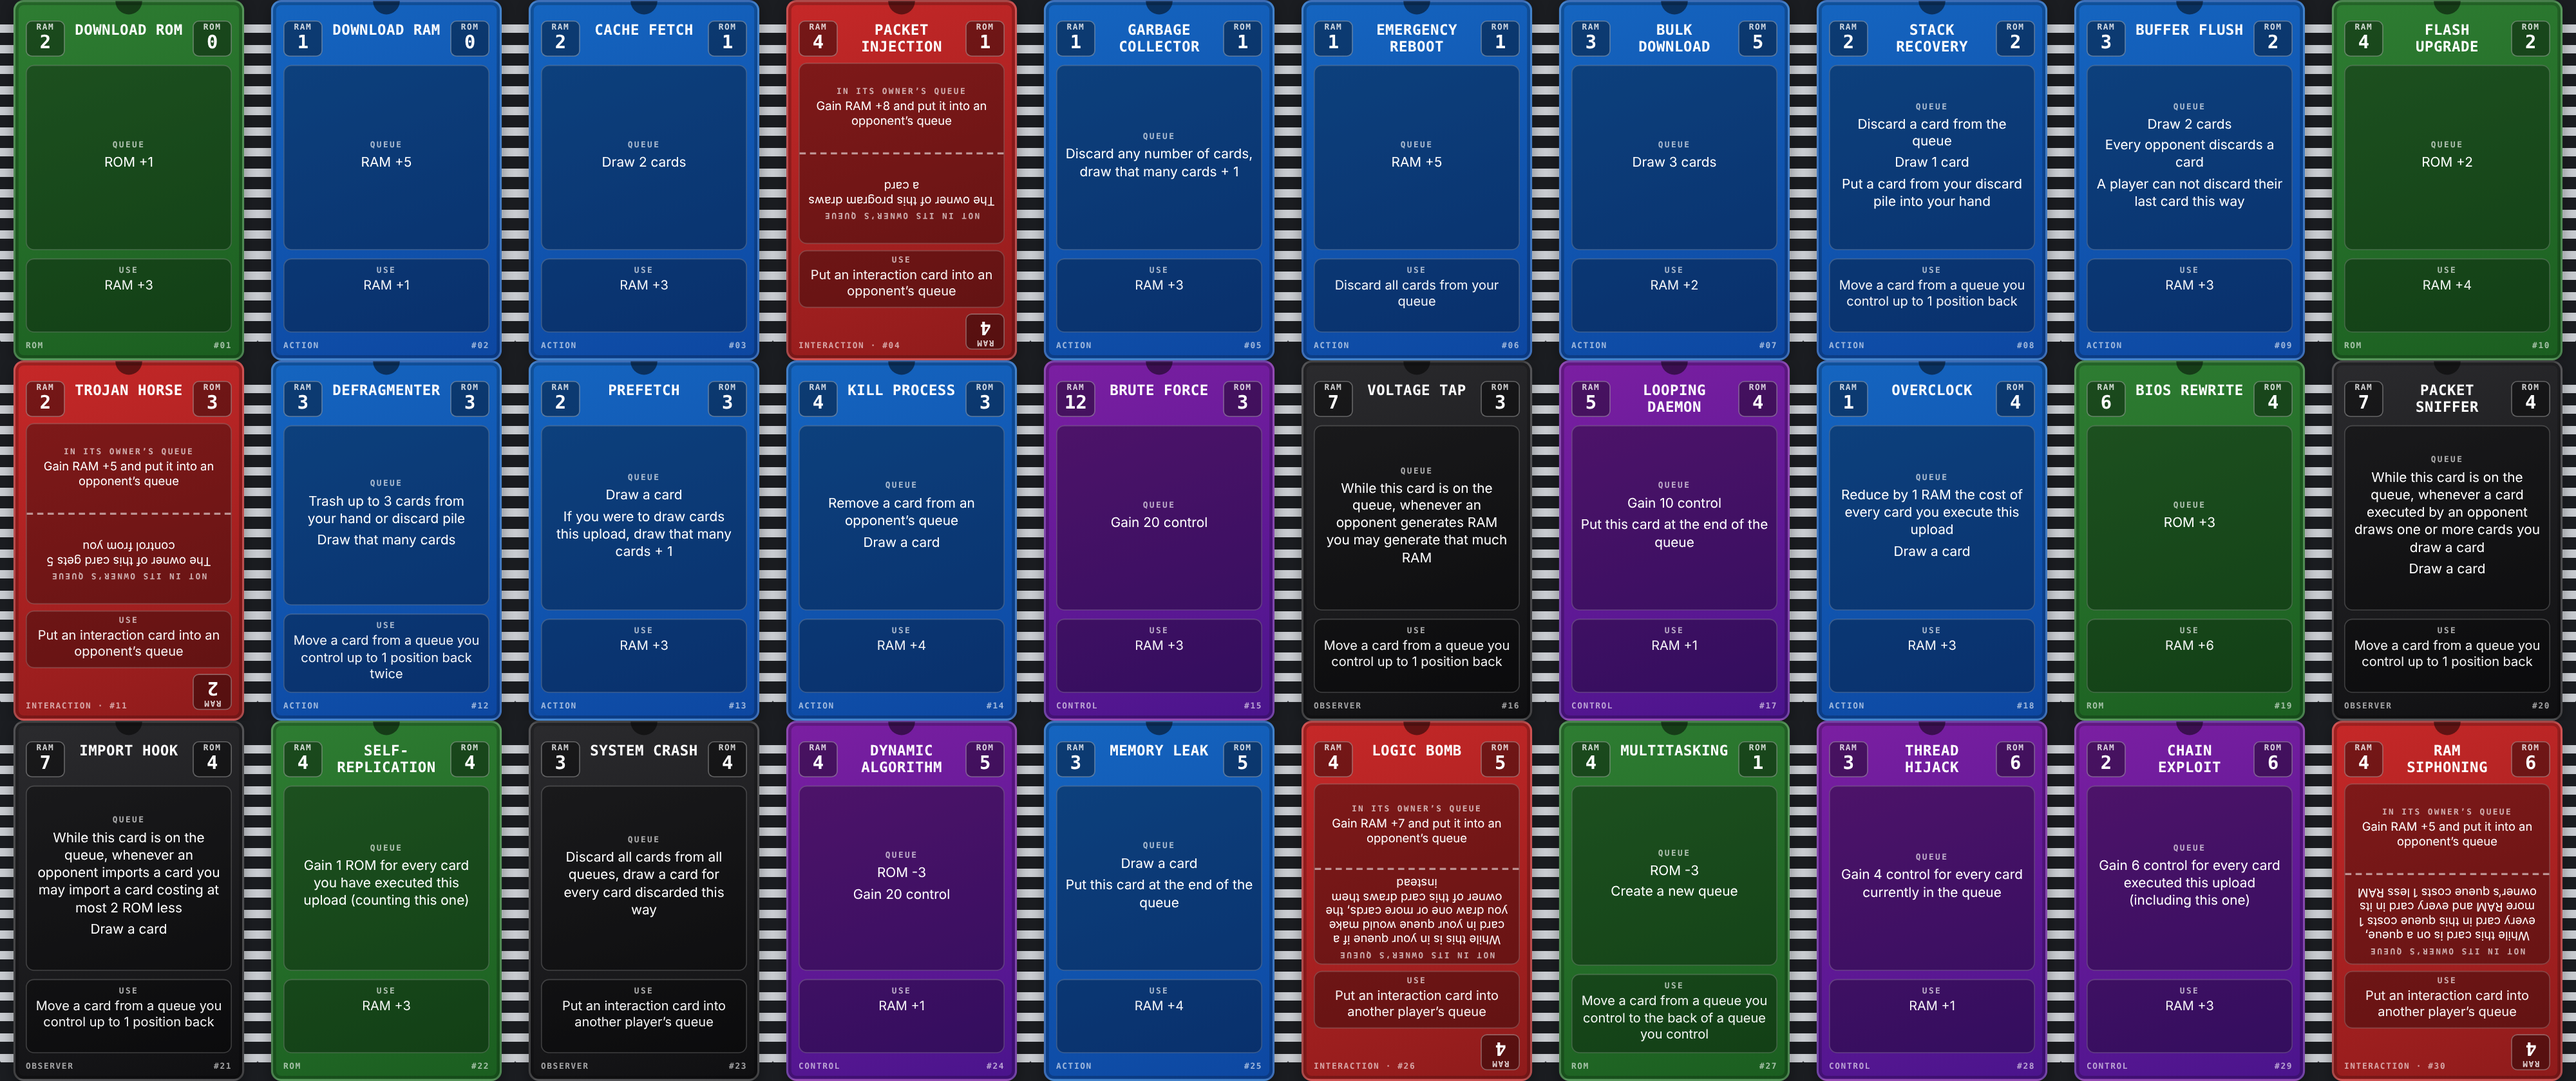
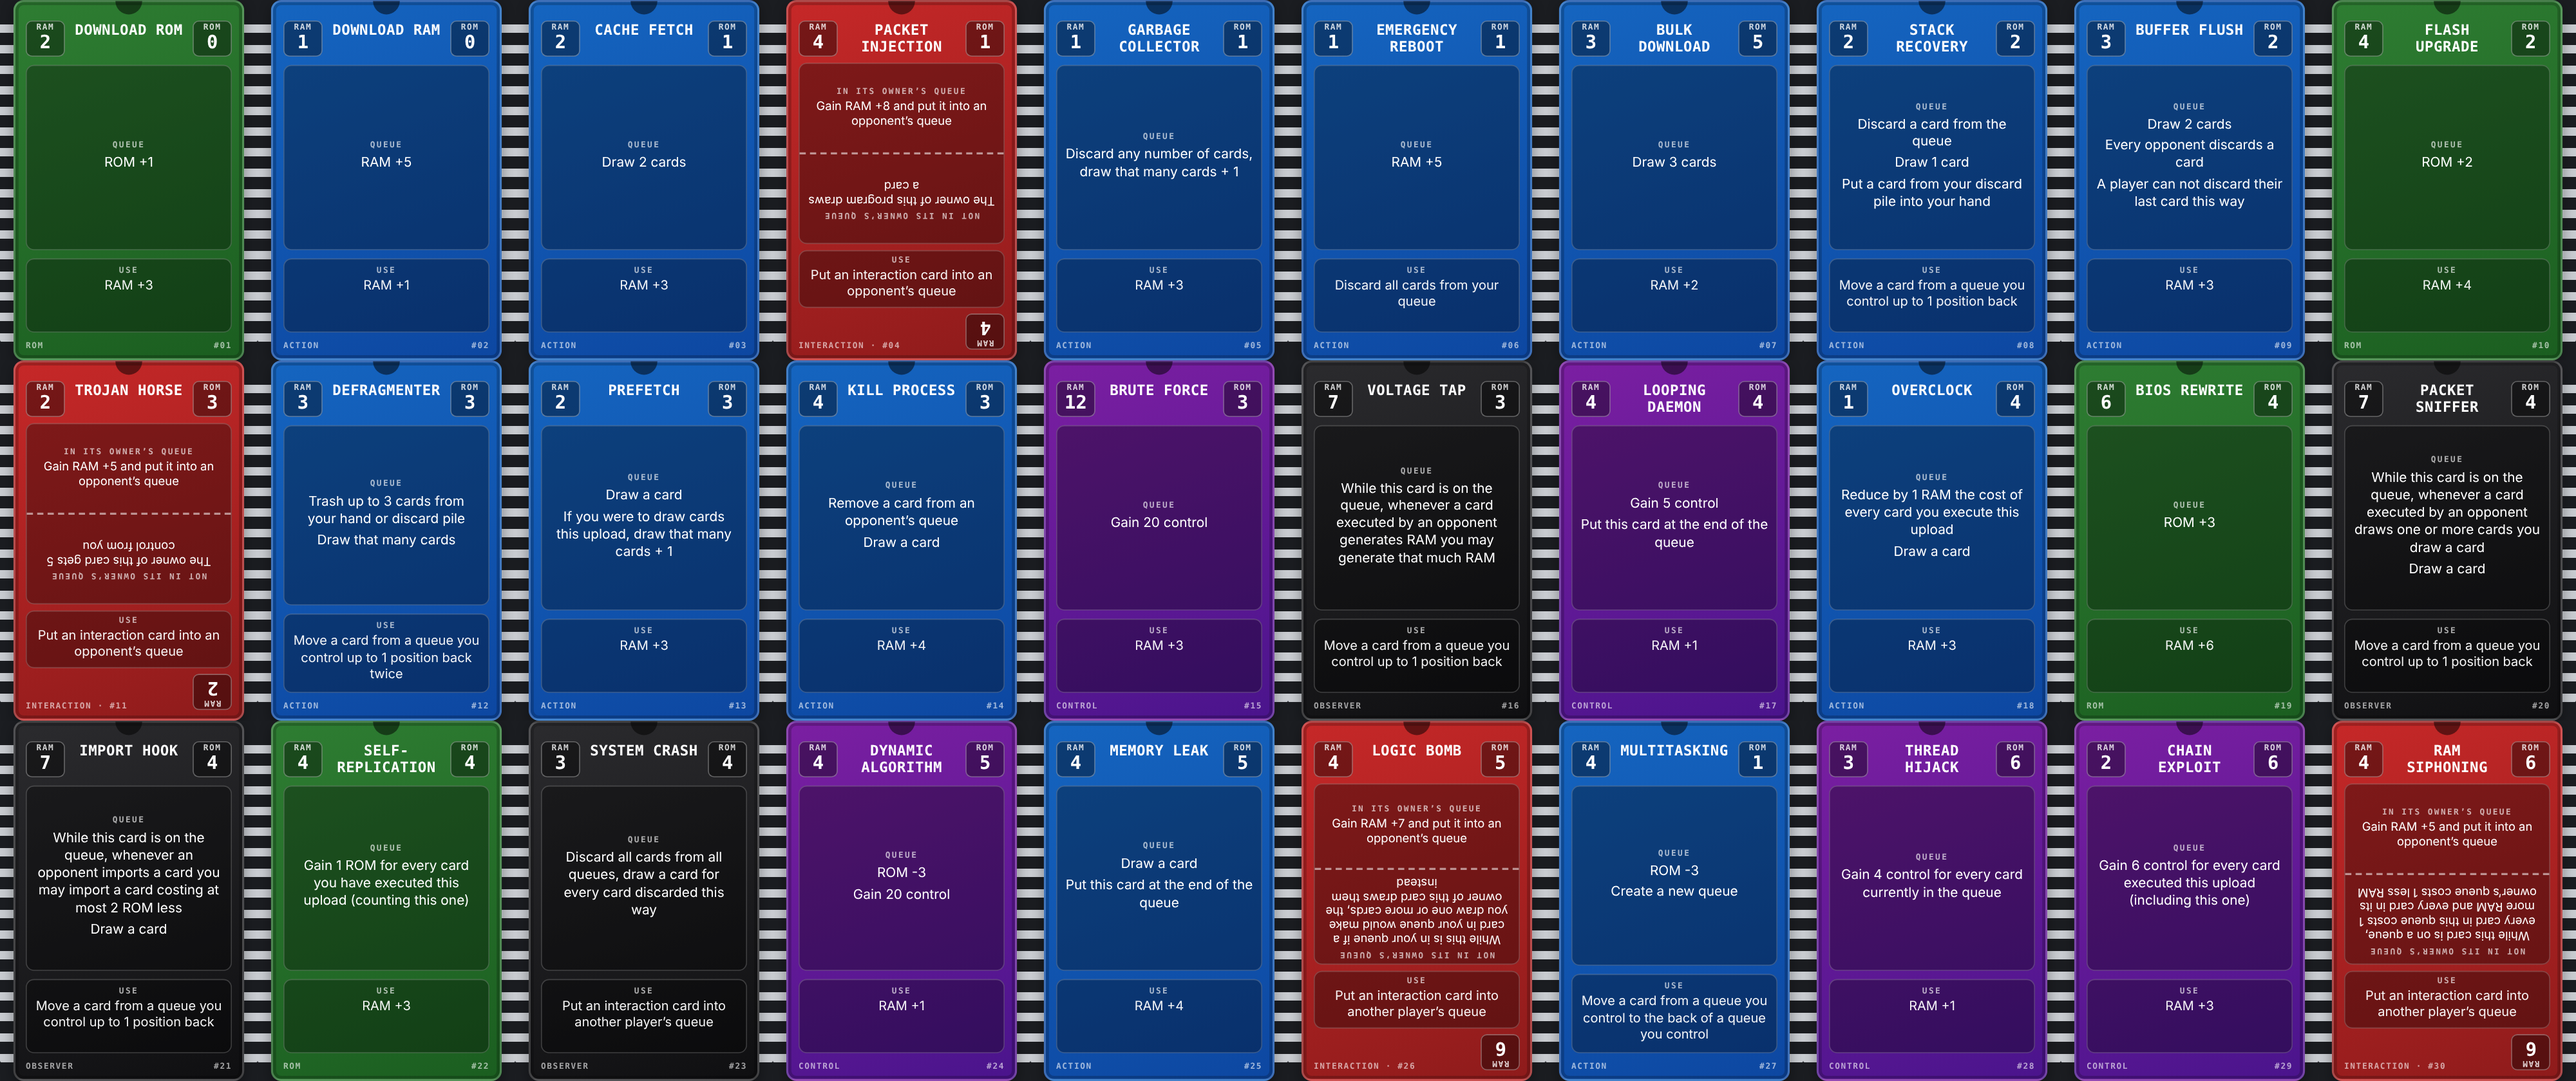
instructions

Changed region(s): [[0.5938, 0.65, 0.7188, 1.0], [0.5, 0.4643, 0.5938, 0.5262]]

diff --git a/content/posts/curiosities/posts/ControlTheQueue/index.md b/content/posts/curiosities/posts/ControlTheQueue/index.md
@@ -61,45 +61,13 @@ In the case of the interaction cards, the "Queue" effect is divided into two par
 
 The green cards represent the cards giving ROM, the black cards are the observers, cards that stay in the queue and provide passive benefits. The purple cards are the control cards, which give you control over the computer and are meant to be the way the game ends. The blue cards are the action cards, which provide a one-time effect when executed. Finally, the red cards are the interaction cards, which can be sent to an opponent's queue to disrupt their strategy and have different effects depending on whether they are in their owner's queue or not.
 
-I include below a comprehensive list of all the cards in the game:
-
-| ID | Name | RAM | ROM | Type | Queue | Use |
-|---:|------|----:|----:|------|-------|-----|
-| 1 | Download ROM | 2 | 0 | ROM | ROM +1 | RAM +3 |
-| 2 | Download RAM | 1 | 0 | Action | RAM +5 | RAM +1 |
-| 3 | Cache Fetch | 2 | 1 | Action | Draw 2 cards | RAM +3 |
-| 4 | Packet Injection | 4 | 1 | Interaction | **In its owner's queue:** Gain RAM +8 and put it into an opponent’s queue<br>**Not in its owner's queue:** The owner of this program draws a card | Put an interaction card into an opponent’s queue |
-| 5 | Garbage Collector | 1 | 1 | Action | Discard any number of cards, draw that many cards + 1 | RAM +3 |
-| 6 | Emergency reboot | 1 | 1 | Action | RAM +5 | Discard all cards from your queue |
-| 7 | Bulk Download | 3 | 2 | Action | Draw 3 cards | RAM +2 |
-| 8 | Stack Recovery | 2 | 2 | Action | Discard a card from the queue<br>Draw 1 card<br>Put a card from your discard pile into your hand | Move a card from a queue you control up to 1 position back |
-| 9 | Buffer Flush | 2 | 2 | Action | Draw 2 cards<br>Every opponent discards a card | RAM +3 |
-| 10 | Flash Upgrade | 4 | 2 | ROM | ROM +2 | RAM +4 |
-| 11 | Trojan Horse | 2 | 3 | Interaction | **In its owner's queue:** Gain RAM +5 and put it into an opponent’s queue<br>**Not in its owner's queue:** The owner of this card gets 5 control from you | Put an interaction card into an opponent’s queue |
-| 12 | Defragmenter | 3 | 3 | Action | Trash up to 3 cards from your hand or discard pile<br>Draw that many cards | Move a card from a queue you control up to 1 position back twice |
-| 13 | Prefetch | 2 | 3 | Action | If you were to draw cards this upload, draw that many cards + 1<br>Draw a card | RAM +3 |
-| 14 | Kill Process | 4 | 3 | Action | Remove a card from an opponent’s queue<br>Draw a card | RAM +4 |
-| 15 | Brute force | 12 | 3 | Control | Gain 20 control | RAM +3 |
-| 16 | Voltage Tap | 7 | 3 | Observer | While this card is on the queue, whenever an opponent generates RAM you may generate that much RAM | Move a card from a queue you control one position back |
-| 17 | Looping Daemon | 5 | 4 | Control | Gain 10 control<br>Put this card at the end of the queue | RAM +1 |
-| 18 | Overclock | 1 | 4 | Action | Reduce by 1 RAM the cost of every card you execute this upload<br>Draw a card | RAM +3 |
-| 19 | BIOS Rewrite | 6 | 4 | ROM | ROM +3 | RAM +6 |
-| 20 | Packet Sniffer | 7 | 4 | Observer | While this card is on the queue, whenever a card executed by an opponent draws one or more cards you draw a card<br>Draw a card | Move a card from a queue you control up to 1 position back |
-| 21 | Import Hook | 7 | 4 | Observer | While this card is on the queue, whenever an opponent imports a card you may import a card costing at most 2 ROM less | Move a card from a queue you control one position back |
-| 22 | Self-replication | 5 | 4 | ROM | Gain 1 ROM for every card you have executed this upload (counting this one) | RAM +3 |
-| 23 | System Crash | 3 | 4 | Observer | Discard all cards from all queues, draw a card for every card discarded this way | Put an interaction card into another player’s queue |
-| 24 | Dynamic algorithm | 4 | 5 | Control | ROM -3<br>Gain 20 control | RAM +1 |
-| 25 | Memory Leak | 3 | 5 | Action | Draw a card<br>Put this card at the end of the queue | RAM +4 |
-| 26 | Logic Bomb | 4 | 5 | Interaction | **In its owner's queue:** Gain RAM +7 and put it into an opponent’s queue<br>**Not in its owner's queue:** While this is in your queue if a card in your queue would make you draw one or more cards, the owner of this card draws them instead | Put an interaction card into another player’s queue |
-| 27 | Multitasking | 4 | 5 | ROM | ROM -3<br>Create a new queue | Move a card from a queue you control to the back of a queue you control |
-| 28 | Thread Hijack | 3 | 6 | Control | Gain 2 control for every card currently in the queue | RAM +1 |
-| 29 | Chain Exploit | 2 | 6 | Control | Gain 4 control for every card executed this upload (including this one) | RAM +3 |
-| 30 | RAM siphoning | 4 | 6 | Interaction | **In its owner's queue:** Gain RAM +5 and put it into an opponent’s queue<br>**Not in its owner's queue:** While this card is on a queue, every card in this queue costs 1 more RAM and every card in its owner’s queue costs 1 less RAM | Put an interaction card into another player’s queue |
-
 The basic ROM cards are the following:
 - **DOWNLOAD ROM**
 - **FLASH UPGRADE**
 - **BIOS REWRITE**
+
+Finally, a couple of clarifications:
+Trash means that the card is removed from the game, queues created stay until the end of the game, removing a crad from a queue discards it. Cards can not move back from the last position.
 
 ## Game turn Structure
 
@@ -107,29 +75,37 @@ Now that we know what a card looks like is time for us to see what is this queue
 
 ### The queue
 
-Every player has (at least) one queue that starts empty, when a player wants to execute a card they must put it in the back of one of their queues. The queue is a first-in-first-out structure, meaning that the first card in the queue is the first one to be executed. In other words, to execute the card in the back of the queue, a player must first execute all the cards in front of it.
+Every player has (at least) one queue that starts empty, when a player wants to execute a card they must put it in the back of one of their queues. The queue is a first-in-first-out structure, meaning that the first card in the queue is the first one to be executed. In other words, to execute the card in the back of the queue, a player must first execute all the cards in front of it. All cards added to a queue in any circumstance will be placed at the back of the queue.
 
-How do you execute a card? By discarding any number of cards in your hand you usually generate RAM you can use to execute all cards you can fully pay for in the queue in order, until you reach a card that you cannot pay for or the queue becomes empty. When this happens all remaining RAM will be lost and all executed cards will go to the discard pile. When a card is executed, its "Queue" effect is resolved in order from top to bottom, if an action in the card can not be resolved, any actions below it will not be resolved either. For example, the card "DYNAMIC ALGORITHM" has a "Queue" effect that gives you 20 control, but it also has a "ROM -3" effect. If you do not have enough ROM to pay for the "ROM -3" effect, you will not gain the 20 control.
+How do you execute a card? By discarding any number of cards in your hand you usually generate RAM which will execute all cards it can be used to fully pay for in the queue in order, until you reach a card that you cannot pay for or the queue becomes empty. When this happens all remaining RAM will be lost and all executed cards will go to the discard pile. You can think of the RAM as a monster that consumes as much as it can and then disappears, the moment it is generated it will execute all cards it can and then disappear.
+
+When a card is executed, its "Queue" effect is resolved in order from top to bottom, if an action in the card can not be resolved, any actions below it will not be resolved either. For example, the card "DYNAMIC ALGORITHM" has a "Queue" effect that gives you 20 control, but it also has a "ROM -3" effect. If you do not have enough ROM to pay for the "ROM -3" effect, you will not gain the 20 control.
 
 The process of, given some RAM, executing cards in the queue until it is no longer possible is called an "upload".
 
 ### Player Turns
 
-So, how does a player turn goes? At the beginning of a player's turn if any of their queues is not empty, the first card of the queue of their choice is executed for free. Then the player draws 5 cards, shuffling their discard pile and drawing from it if their deck is empty. After that, the player can add any number of cards to the deck until their turn is over. At any point, during their turn or any other player's turn, they may discard any number of cards to use their actions, if they generate RAM with the discard, they may choose a queue to execute cards from. The turn ends when the player has no more cards in their hand or they choose to end their turn.
+So, how does a player turn goes? At the beginning of a player's turn if any of their queues is not empty, the first card of the queue of their choice is executed for free. Then the player can add any number of cards to the deck until their turn is over. At any point, during their turn or any other player's turn, they may discard any number of cards to use their actions, if they generate RAM with the discard, they may choose a queue to execute cards from. The turn ends when the player has no more cards in their hand or they choose to end their turn.
 
-At the end of the turn, the player can **import** (take from the deck) any number of cards with total ROM cost equal to or less than the amount of ROM they have obtained this turn. The imported cards go to the discard pile and the unused ROM is lost.
+At the end of the turn, the player can **import** (take from the deck) any number of cards with total ROM cost equal to or less than the amount of ROM they have obtained this turn. The imported cards go to the discard pile and any unused ROM of any player is lost.
 
-Finally, the player draws or discards cards until they have 5 in their hand.
+Finally, the player draws or discards cards until they have 5 in their hand, shuffling their discard pile and drawing from it if their deck is empty and they need to draw cards.
+
+### Using cards in other players turn,
+
+This is the slightly technical part describing what it means to be able to use your cards at any moment.
+
+The game works with priority, meaning that the player whose turn it is has priority to do actions, after they perform an action (using a card or putting a card in the queue), any player in order can perform an action (using a card). There is no response window, meaning that if a player performs an action no player may act until the action is completely resolved.
 
 ### Example of a turn:
 
 Alice has just started the game and has 5 cards in her hand: 4 "DOWNLOAD ROM" and 1 "DOWNLOAD RAM". She puts the "DOWNLOAD RAM" card in her queue first and then 3 "DOWNLOAD ROM" cards.
 
-In that moment Bob discards a "DOWNLOAD ROM" card from his hand to generate 15 RAM, which he uses to execute a "TROJAN HORSE" card, which was the only card on his queue. This card gives him 25 RAM that is immediately lost due to the queue being empty, and is put at the end of Carol's queue due to its queue effect.
+In that moment Bob discards a "DOWNLOAD ROM" card from his hand to generate 3 RAM, which he uses to execute a "TROJAN HORSE" card, which was the only card on his queue. This card gives him 5 RAM that is immediately lost due to the queue being empty, and is put at the end of Carol's queue due to its queue effect.
 
-Alice then discards her last "DOWNLOAD ROM" card to generate 15 RAM. She executes the "DOWNLOAD RAM" card for 5 RAM, which gives her 25 RAM so she has 35 RAM available. Because there is enough RAM available, she executes the first "DOWNLOAD ROM" card for 10 RAM, which gives her 1 ROM. She executes the second "DOWNLOAD ROM" card for 10 RAM, which gives her another ROM. Finally, she executes the last "DOWNLOAD ROM" card for 10 RAM, which gives her a third ROM. She has now executed all cards in her queue and has 5 RAM left which as the upload has ended are lost. 
+Alice then discards her last "DOWNLOAD ROM" card to generate 3 RAM. She executes the "DOWNLOAD RAM" card for 1 RAM, which gives her 5 RAM so she has 7 RAM available. Because there is enough RAM available, she executes the first "DOWNLOAD ROM" card for 2 RAM, which gives her 1 ROM. She executes the second "DOWNLOAD ROM" card for 2 RAM, which gives her another ROM. Finally, she executes the last "DOWNLOAD ROM" card for 2 RAM, which gives her a third ROM. She has now executed all cards in her queue and has 1 RAM left which as the upload has ended are lost. 
 
-She decides to end her turn (as she does't have any more cards to discard or put into the queue) so she uses her 3 ROM to import a "TROJAN HORSE" which she takes from its deck and puts into her discard pile. She then has to draw 5 cards, but her deck only has 3 cards left, so she shuffles her discard pile and draws another 2 cards from it.
+She decides to end her turn (as she doesn't have any more cards to discard or put into the queue) so she uses her 3 ROM to import a "TROJAN HORSE" which she takes from its deck and puts into her discard pile. She then has to draw 5 cards, but her deck only has 3 cards left, so she draws 3 cards, shuffles her discard pile and draws another 2 cards from it.
 
 ## Ending the game
 
